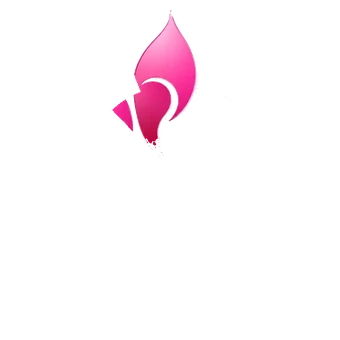
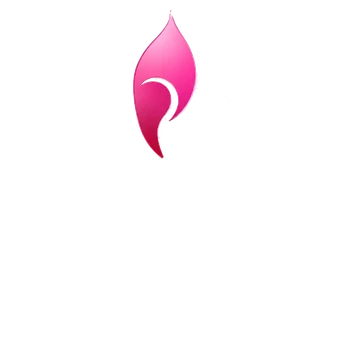
feat(header): 花全体を回転させつつ消える＋ピンク2枚を連結成分で分割し直し
- ヘッダーの花を12秒/回転(markSpin)しながら花びらが1枚ずつ消える動きに
- 2つのピンクを連結成分で分割し断片化/付け根の消え残り/一番上が消えない現象を解消
- petal-0〜7.webp 差し替え＋css/style.css／reduced-motionで回転停止／履歴更新

Claude-Session: https://claude.ai/code/session_01UejJrcTvtWasbZ1U48pvzm

Changed region(s): [[0.3235, 0.2941, 0.4118, 0.3824], [0.4118, 0.4118, 0.5, 0.4706], [0.3824, 0.2059, 0.4118, 0.2941]]

diff --git a/css/style.css b/css/style.css
@@ -80,9 +80,11 @@ body::before{content:"";position:fixed;inset:0 0 auto 0;height:4px;z-index:200;b
   max-width:var(--container);margin-inline:auto;padding-inline:var(--space-4);}
 .l-header__logo{margin:0;}
 .l-header__logo a{display:inline-flex;align-items:center;gap:.5em;text-decoration:none;}
-/* ヘッダーの花マーク：8枚レイヤーで花びらが1枚ずつ欠けながら巡回（ローダーと同方式） */
-.l-header__mark{position:relative;flex:none;width:34px;height:34px;transition:width .25s,height .25s;}
+/* ヘッダーの花マーク：8枚レイヤーで花びらが1枚ずつ欠けながら、花全体はゆっくり回転 */
+.l-header__mark{position:relative;flex:none;width:34px;height:34px;transition:width .25s,height .25s;
+  animation:markSpin 12s linear infinite;transform-origin:50% 50%;}
 .l-header.is-scrolled .l-header__mark{width:28px;height:28px;}
+@keyframes markSpin{to{transform:rotate(360deg);}}
 .l-header__petal{position:absolute;inset:0;background:center/contain no-repeat;
   --dur:9.5s; --step:.5s;
   animation:petalGlow var(--dur) linear infinite;
@@ -98,7 +100,7 @@ body::before{content:"";position:fixed;inset:0 0 auto 0;height:4px;z-index:200;b
 .l-header__petal:nth-child(7){background-image:url(../assets/img/loader/petal-6.webp);}
 .l-header__petal:nth-child(8){background-image:url(../assets/img/loader/petal-7.webp);}
 .l-header__word{font-family:var(--font-en);font-weight:600;font-size:1.2rem;letter-spacing:.02em;color:var(--text-strong);line-height:1;}
-@media (prefers-reduced-motion: reduce){ .l-header__petal{animation:none;opacity:1;} }
+@media (prefers-reduced-motion: reduce){ .l-header__mark{animation:none;} .l-header__petal{animation:none;opacity:1;} }
 
 .l-footer{background:#fff;border-top:1px solid var(--line);padding-top:var(--space-10);}
 .l-footer__inner{display:grid;gap:var(--space-6);padding-bottom:var(--space-6);}

diff --git a/チャットログ.md b/チャットログ.md
@@ -5605,3 +5605,16 @@ Stop hook feedback:
 **[Claude]**
 
 
+
+---
+
+## 2026-07-10 03:20:45
+
+**[ユーザー]**
+
+Stop hook feedback:
+[~/.claude/stop-hook-git-check.sh]: There are uncommitted changes in the repository. Please commit and push these changes to the remote branch.
+
+**[Claude]**
+
+チャットログをコミット・プッシュしました（`3cc412f`）。`花ロゴ確認.html`（最新・付け根修正版）はお届け済みです。ブラウザで開いてご確認ください。